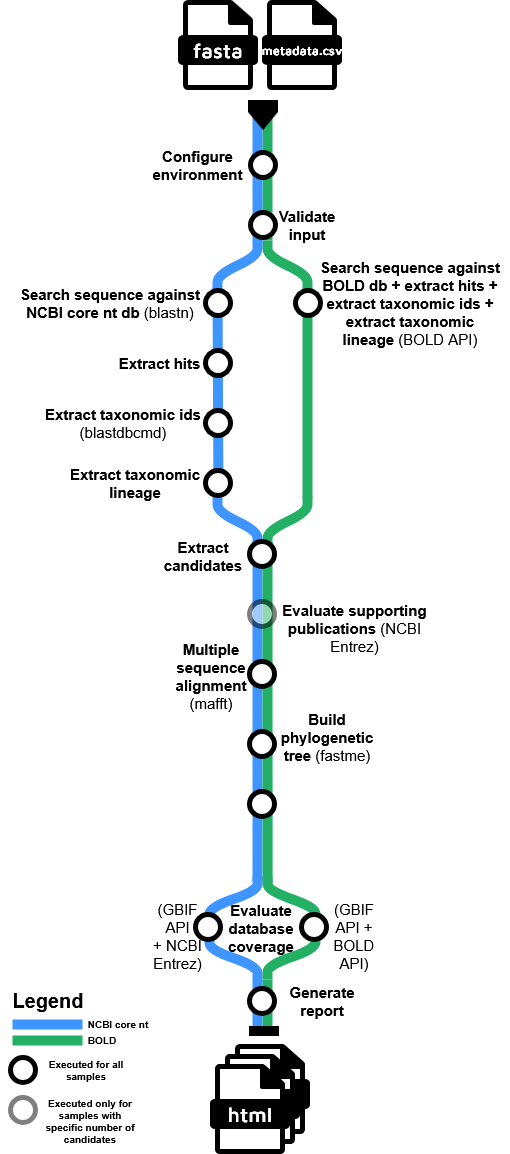
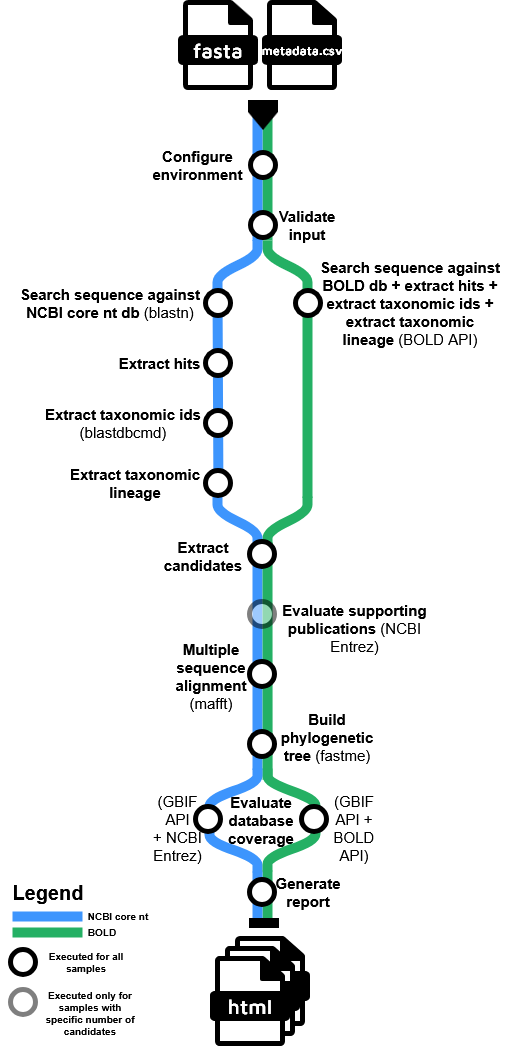
docs update

Changed region(s): [[0.0294, 0.0, 0.9706, 1.0], [0.0, 0.826, 0.2941, 1.0]]

diff --git a/README.md b/README.md
@@ -2,13 +2,32 @@
 
 ## Introduction
 
-This workflow analyses  DNA barcode sequences, attempting to annotate each with a taxonomic identity.
+This workflow analyses DNA barcode sequences, attempting to annotate each with a taxonomic identity.
 
 Much of the code for this analysis is written in Python and lives in https://github.com/qcif/daff-biosecurity-wf2/.
 
 <p align="center">
     <img src="images/daff-wf2.png" alt="daff-tax-assignment-wf2-diagram" />
 </p>
+
+1. Configure environment
+2. Validate input
+3. Search sequence against database
+    1. NCBI core nt (blastn)
+    2. BOLD (BOLD API)
+4. Extract hits
+5. Extract taxonomic ids
+    1. NCBI core nt (blastdbcmd)
+    2. BOLD (BOLD API)
+6. Extract taxonomic lineage
+7. Extract candidates
+8. Evaluate supporting publications (NCBI Entrez)
+9. Multiple sequence alignment (mafft)
+10. Build phylogenetic tree (fastme)
+11. Evaluate database coverage
+    1. NCBI core nt (GBIF API + NCBI Entrez) 
+    2. BOLD (GBIF API + BOLD API)
+12. Generate report
 
 ## Setup
 
